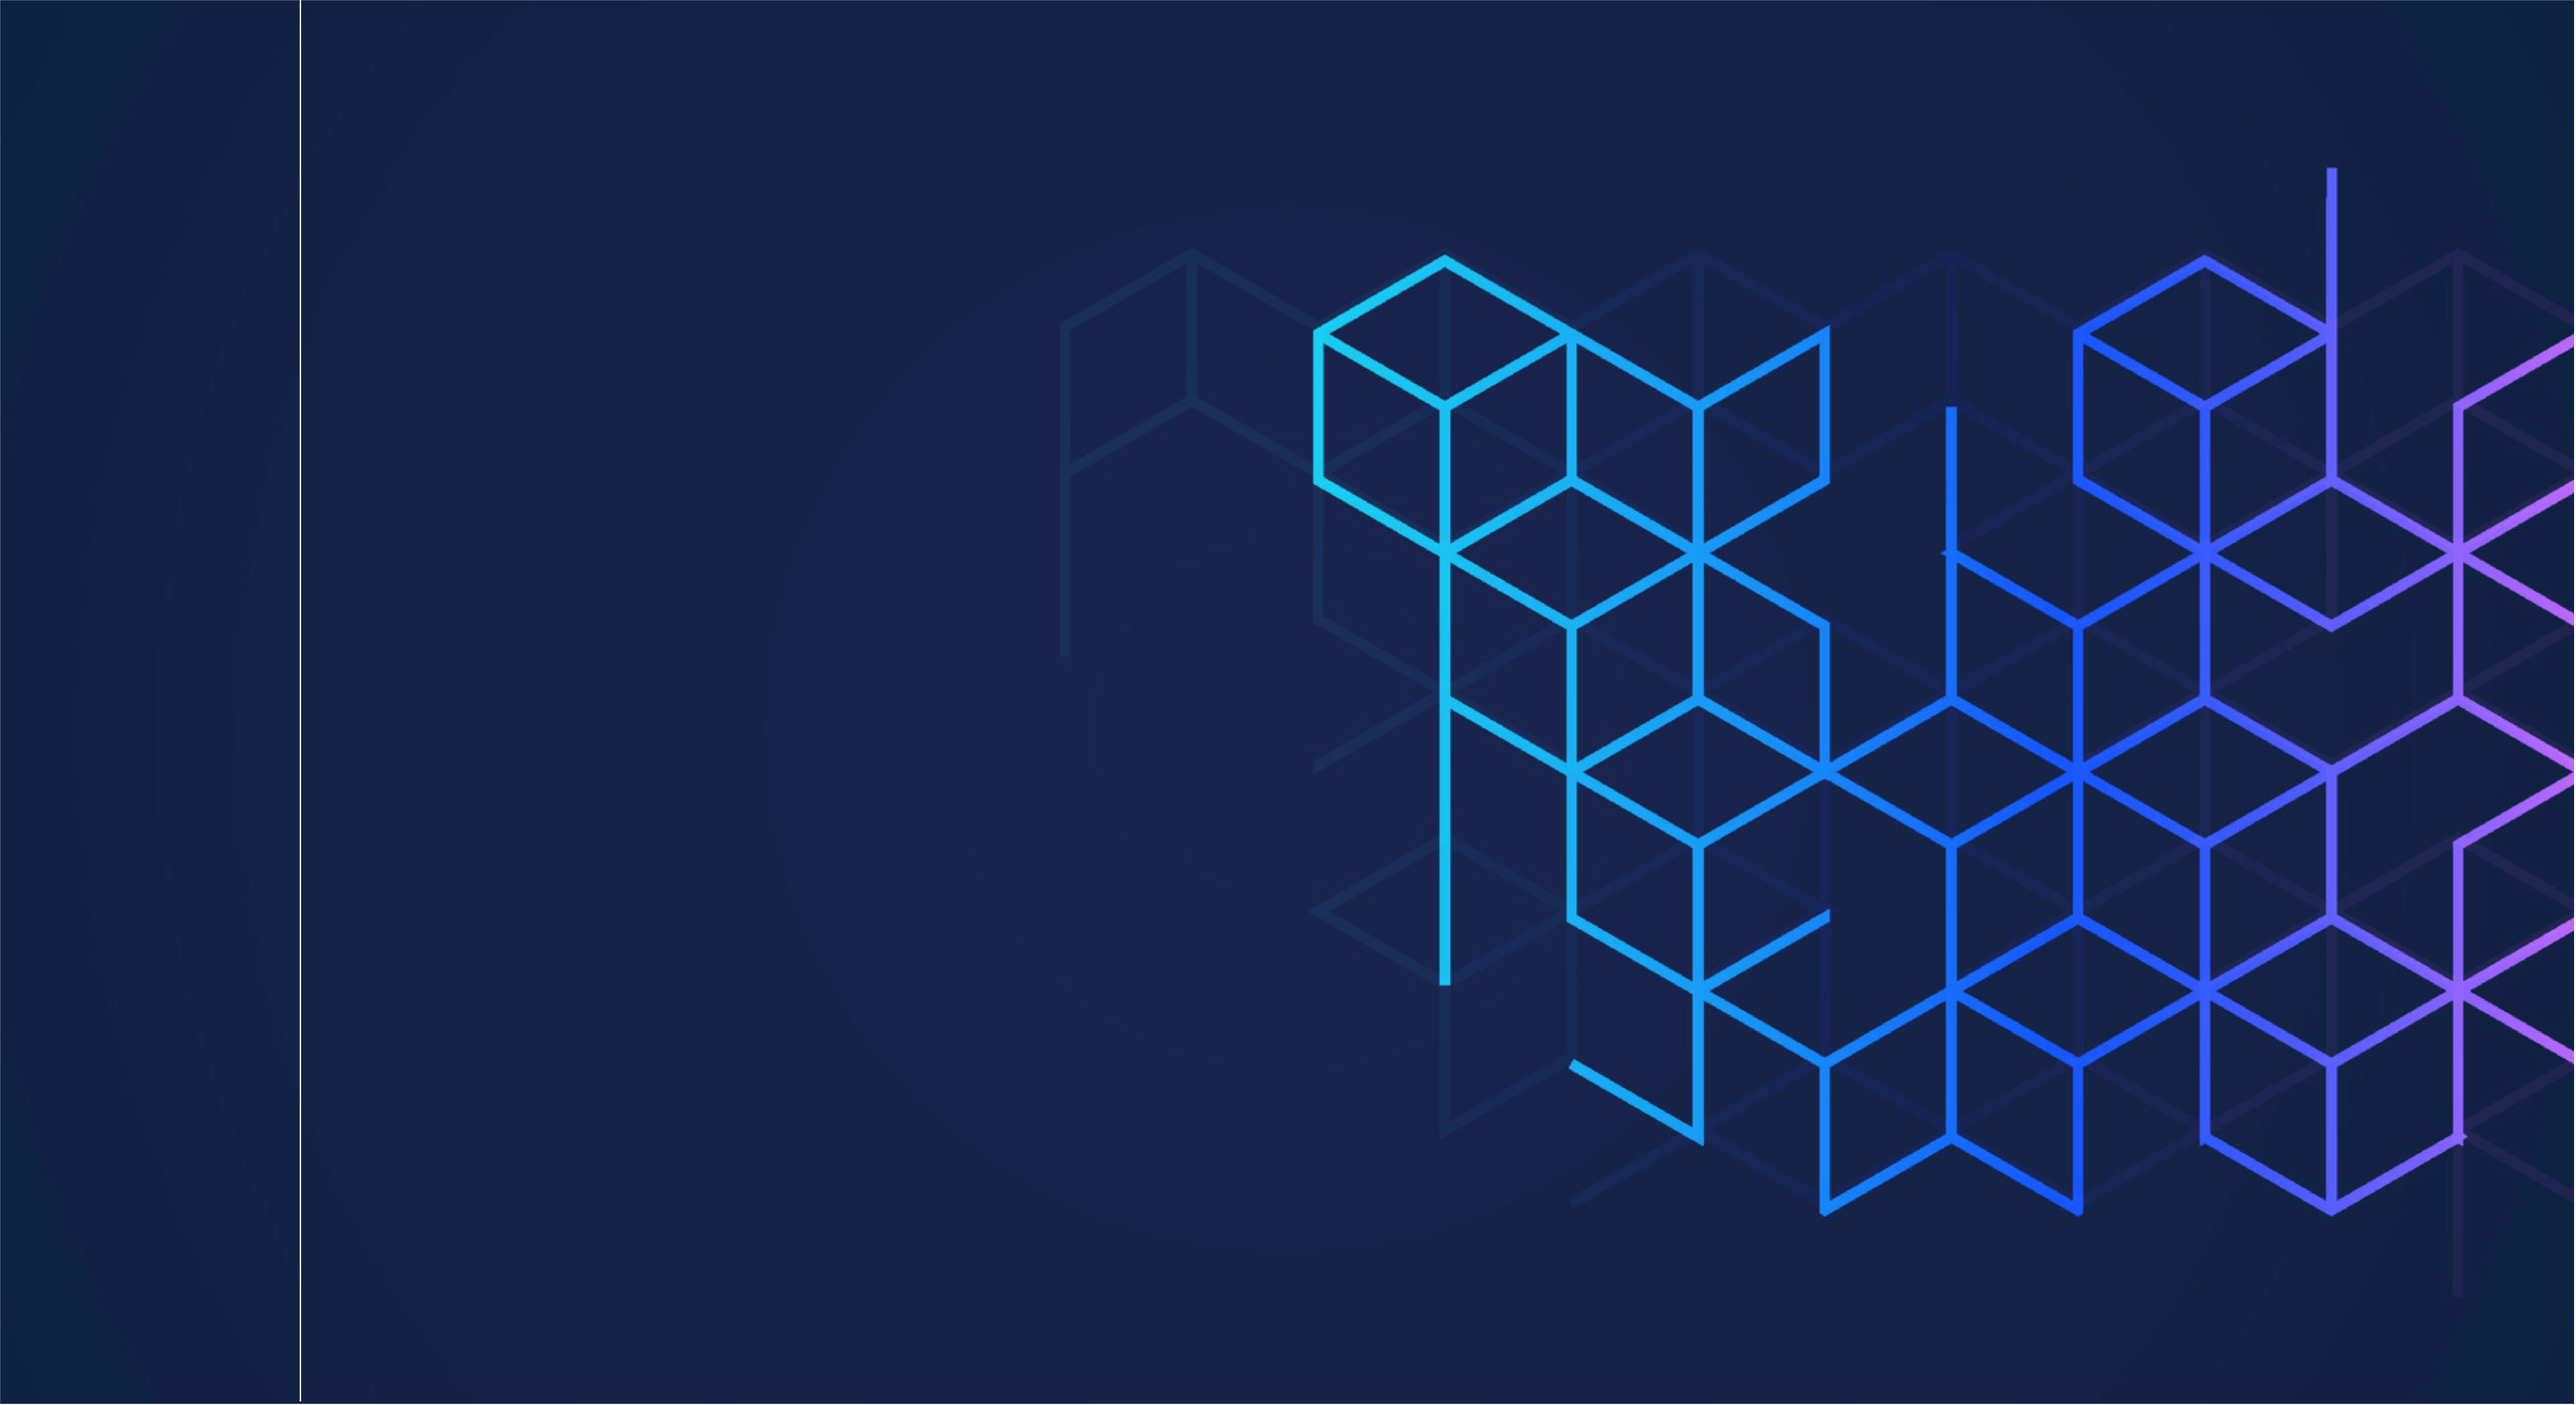
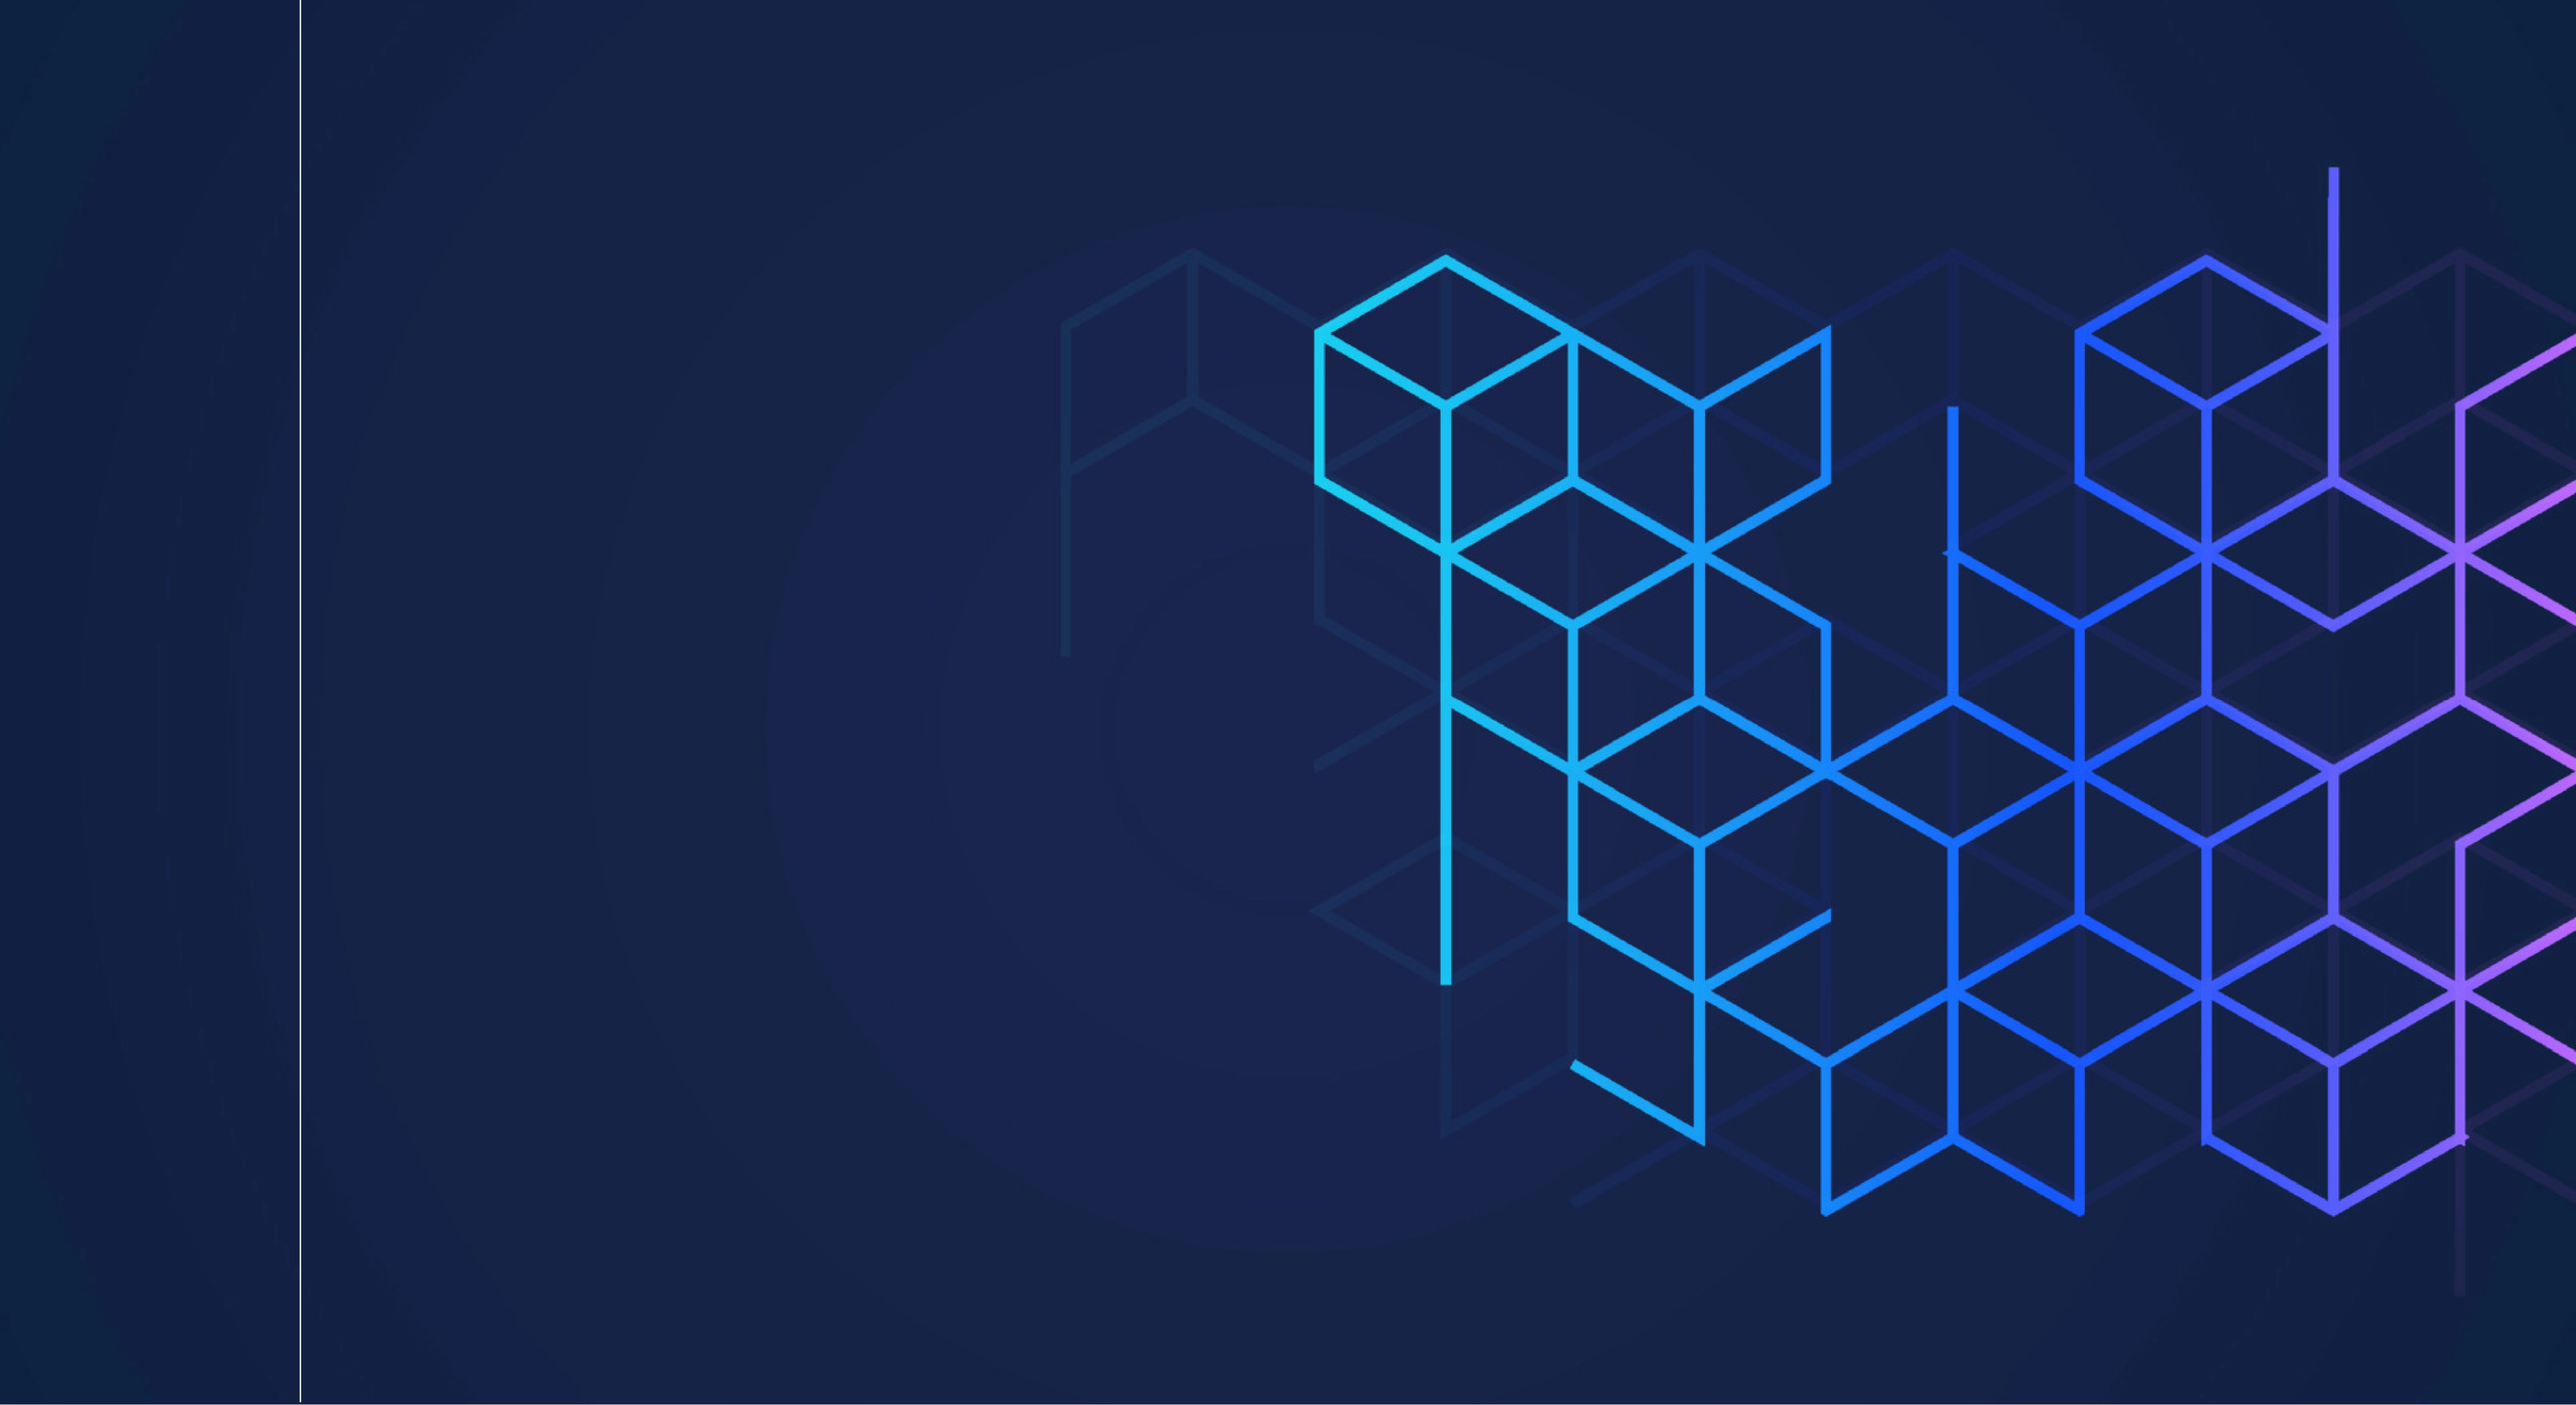
updated

diff --git a/flask_app/static/javascript/home_page.js b/flask_app/static/javascript/home_page.js
@@ -1,4 +1,10 @@
 $(document).ready(function () {
+    // Define a function to animate the opacity of specified elements
+    function animateOpacity(elements) {
+        elements.stop(true).css('opacity', '0').animate({
+            opacity: '1'
+        }, 1000);
+    }
 
     $('a[href*="#page-"]').on('click', function (e) {
         e.preventDefault();
@@ -7,7 +13,9 @@ $(document).ready(function () {
 
         $('html, body').animate({
             scrollTop: targetPos
-        }, 1000);
+        }, 1000, function() {
+            animateOpacity($(targetSection).find('p, h1, h2, h3'));
+        });
     });
 
     $(window).on('scroll', function () {
@@ -21,16 +29,15 @@ $(document).ready(function () {
         var waitlistPos = $('#page-waitlist').offset().top;
         var waitlistHeight = $('#page-waitlist').height();
 
-        // Check if the page is scrolled more than 50% through the #page-intro section
+        // Animate opacity for the section that is currently visible
         if (scrollPos >= introPos && scrollPos < introPos + introHeight * 0.5) {
+            animateOpacity($('#page-intro').find('p, h1, h2, h3'));
             $('.side-nav-links a').css('color', 'white');
-        } 
-        // Check if the page is within the #page-app section
-        else if (scrollPos >= appPos && scrollPos < appPos + appHeight) {
+        } else if (scrollPos >= appPos && scrollPos < appPos + appHeight) {
+            animateOpacity($('#page-app').find('p, h1, h2, h3'));
             $('.side-nav-links a').css('color', 'black');
-        } 
-        // Check if the page is scrolled so that at least 50% of the #page-waitlist section is visible
-        else if (scrollPos >= waitlistPos - waitlistHeight * 0.5 && scrollPos < waitlistPos + waitlistHeight * 0.5) {
+        } else if (scrollPos >= waitlistPos - waitlistHeight * 0.5 && scrollPos < waitlistPos + waitlistHeight * 0.5) {
+            animateOpacity($('#page-waitlist').find('p, h1, h2, h3'));
             $('.side-nav-links a').css('color', 'white');
         } else {
             $('.side-nav-links a').css('color', 'black');

diff --git a/flask_app/static/css/home_page.css b/flask_app/static/css/home_page.css
@@ -5,6 +5,10 @@
 .side-nav-links a {
     color: white;
 }
+p, h1, h2, h3 {
+    opacity: 0;
+    /* transition: opacity 0.4s ease-in-out; */
+}
 
 html{
     overflow-x: hidden;
@@ -237,7 +241,7 @@ html{
             display: flex;
             justify-content: space-between;
             margin-left: 18.5%;
-            margin-top: 15.8%;
+            margin-top: 16%;
             color: white;
             } .wallet-strip-3-points > p {
                 height: 100%;
@@ -289,7 +293,7 @@ html{
                 height: 14%;
                 width: 100%;
                 align-items: flex-end;
-                margin-top: -8.75%;
+                margin-top: -8.62%;
                 margin-left: 8.5%;
                 font-size: 0.8em;
                 } .payment-process {
@@ -365,7 +369,7 @@ html{
                     height: 100%;
                     justify-content: space-around;
                     width: 50%;
-                    margin-top: 3.25%;
+                    margin-top: 4.25%;
                     margin-left: 35.5%;
                     gap: 3.5vh;
                     } .lux-details {
@@ -493,7 +497,7 @@ html{
                             border-radius: 4px;
                             border-width: 0;
                     } .waitlist-form > button {
-                        height: 11%;
+                        height: 12%;
                         width: 61.25%;
                         margin-left: 1.75%;
                         background-color: rgba(22, 109, 253, 1);

diff --git a/flask_app/static/css/contact_page.css b/flask_app/static/css/contact_page.css
@@ -16,7 +16,7 @@ html{
     } #contact-us {
         width: 100%;
         height: 100vh;
-        background-image: url("../media/contactBackground.png");
+        background-image: url("../media/contactBackground.webp");
         background-size: 100%;
         background-repeat: no-repeat;
         display: flex;
@@ -102,7 +102,8 @@ html{
                 } .contact-form {
                     display: flex;
                     flex-direction: column;
-                    gap: 3vh;
+                    gap: 5.75vh;
+                    height: 80%;
                     } .form-name {
                         display: flex;
                         flex-direction: column;
@@ -160,7 +161,7 @@ html{
                             color: white;
                             text-indent: 1%;
                     } .contact-form > button {
-                        height: 3.5%;
+                        height: 6%;
                         text-align: center;
                         border-radius: 4px;
                         border-width: 0;

diff --git a/flask_app/static/css/about_page.css b/flask_app/static/css/about_page.css
@@ -16,7 +16,7 @@ html{
     } #about-intro {
         width: 100%;
         height: 100vh;
-        background-image: url("../media/aboutBackground.png");
+        background-image: url("../media/aboutBackground.webp");
         background-size: 100%;
         background-repeat: no-repeat;
         display: flex;
